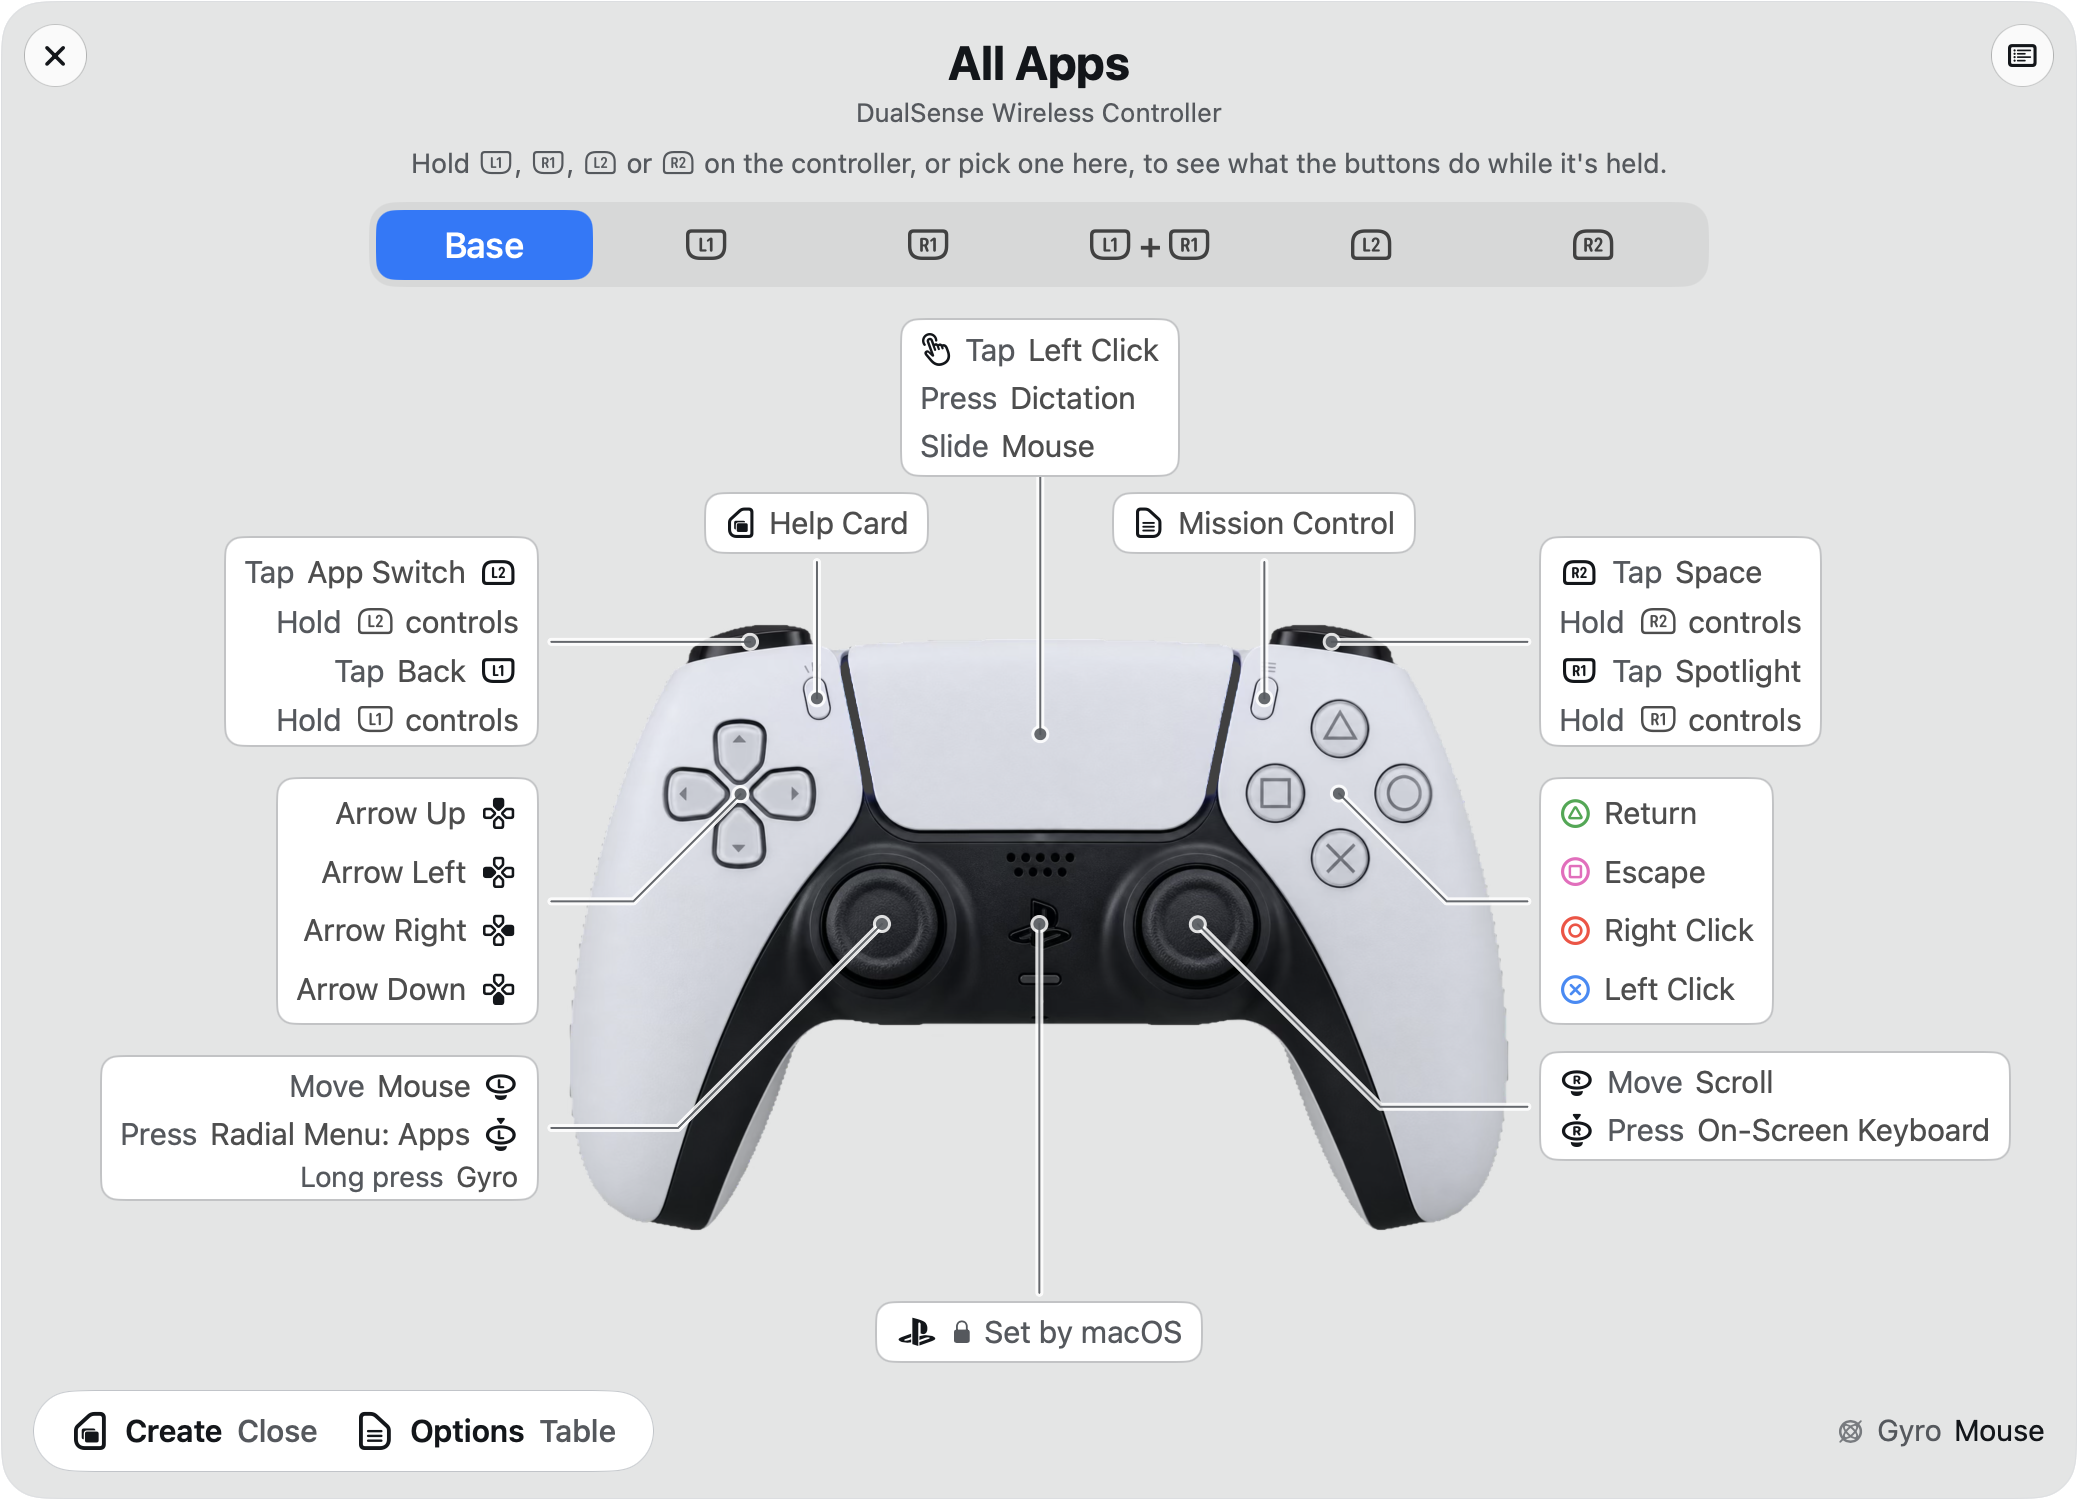
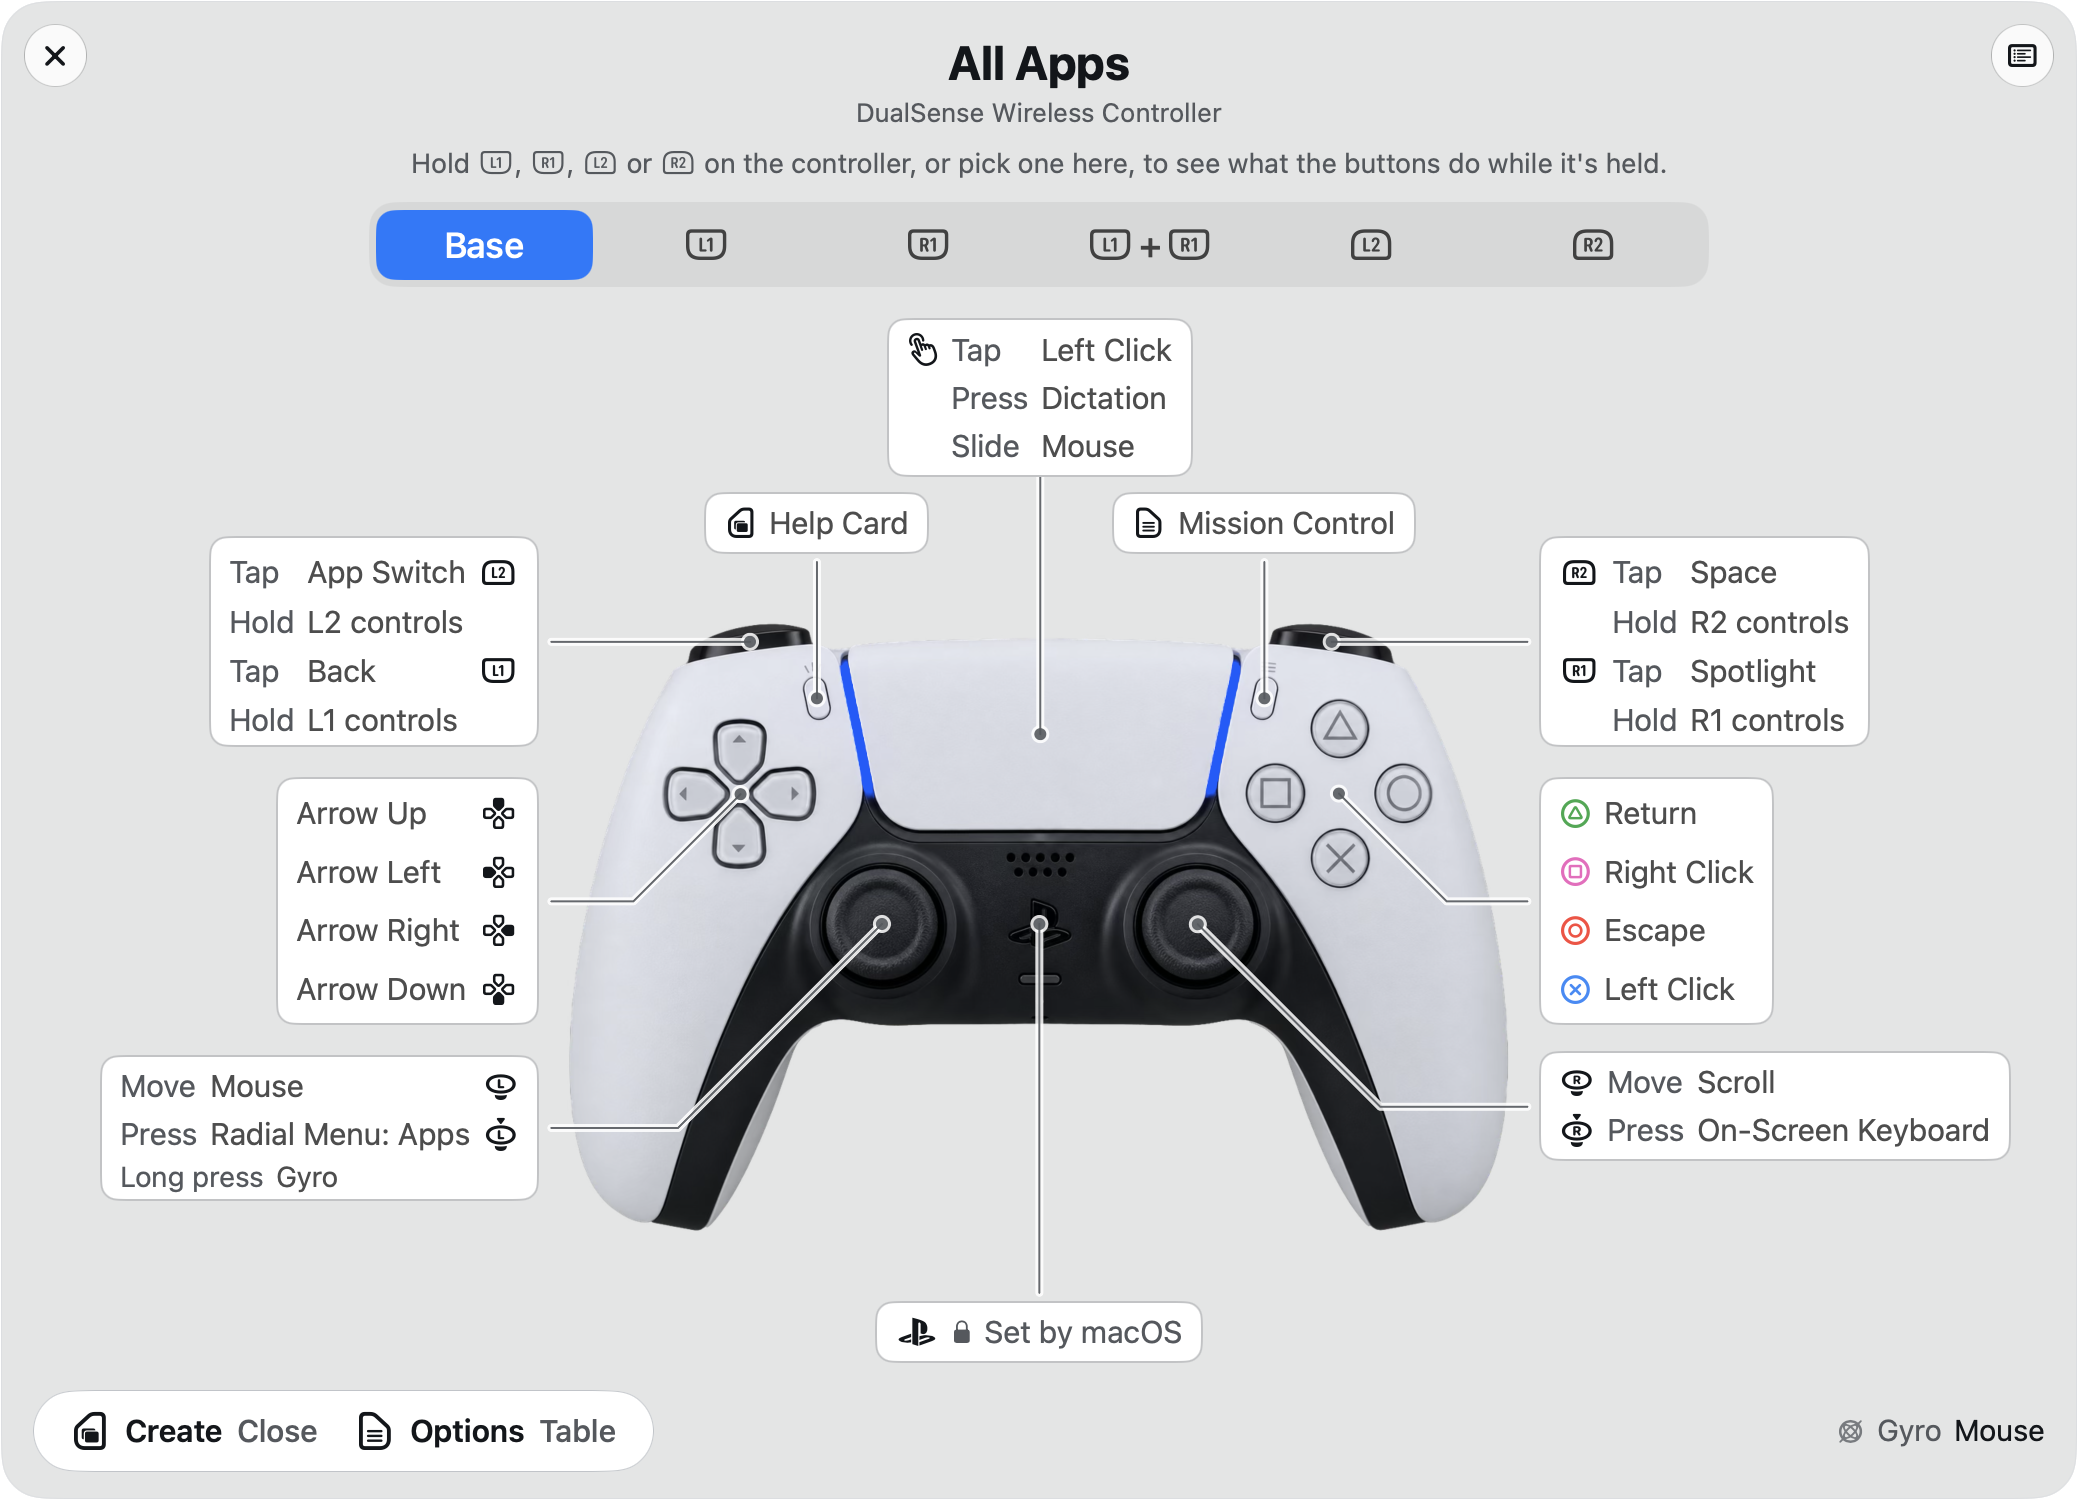
fix(assets): help cards recaptured with Circle as Escape, clean pad edges
Recaptured from Steer Dev at e03fec3c (DualSense and Xbox, light and
dark, named pads, Steer's windows only): Square/X right-clicks and
Circle/B is Escape, and the DualSense's sides lose the stair-stepped
edge the old capture carried. The home help card's alt text follows.

Claude-Session: https://claude.ai/code/session_01A2kN9smtopK9dEJVkxHDmz

diff --git a/src/_includes/bands/home/setup.html b/src/_includes/bands/home/setup.html
@@ -1,7 +1,7 @@
 <!-- IS IT FIDDLY? The help card is the answer, and the only controller picture.
      The whole card shows; on a phone it scrolls sideways at the size its labels read.
      Base buttons: steer SteerCore/Defaults.swift:49-69. Create opens the card. -->
-{% macro help(theme) %}<img class="h-{{ 'lt' if theme == 'light' else 'dk' }}" src="assets/app/help-{{ theme }}.png" eleventy:widths="900,1400,2078" width="2078" height="1500" sizes="(max-width: 600px) 230vw, (max-width: 1000px) 100vw, 1000px" loading="lazy" alt="Steer's help card for a DualSense, every control labelled with its job: Cross Left Click, Circle Right Click, Triangle Return, Square Escape, L1 Back, R1 Spotlight, L2 App Switch, R2 Space (each shoulder and trigger also holds its own layer), the D-pad the arrow keys, the left stick the mouse (pressed, your apps), the right stick scrolling (pressed, the on-screen keyboard), Options Mission Control, Create this card, and a touchpad press Dictation.">{% endmacro %}
+{% macro help(theme) %}<img class="h-{{ 'lt' if theme == 'light' else 'dk' }}" src="assets/app/help-{{ theme }}.png" eleventy:widths="900,1400,2078" width="2078" height="1500" sizes="(max-width: 600px) 230vw, (max-width: 1000px) 100vw, 1000px" loading="lazy" alt="Steer's help card for a DualSense, every control labelled with its job: Cross Left Click, Circle Escape, Triangle Return, Square Right Click, L1 Back, R1 Spotlight, L2 App Switch, R2 Space (each shoulder and trigger also holds its own layer), the D-pad the arrow keys, the left stick the mouse (pressed, your apps), the right stick scrolling (pressed, the on-screen keyboard), Options Mission Control, Create this card, and a touchpad press Dictation.">{% endmacro %}
 <section class="q q-setup" aria-labelledby="q-setup">
   <div class="head">
     <h2 id="q-setup" class="display"><span class="pain">Is it fiddly to set up?</span> <span>No. Every button already has a job.</span></h2>
